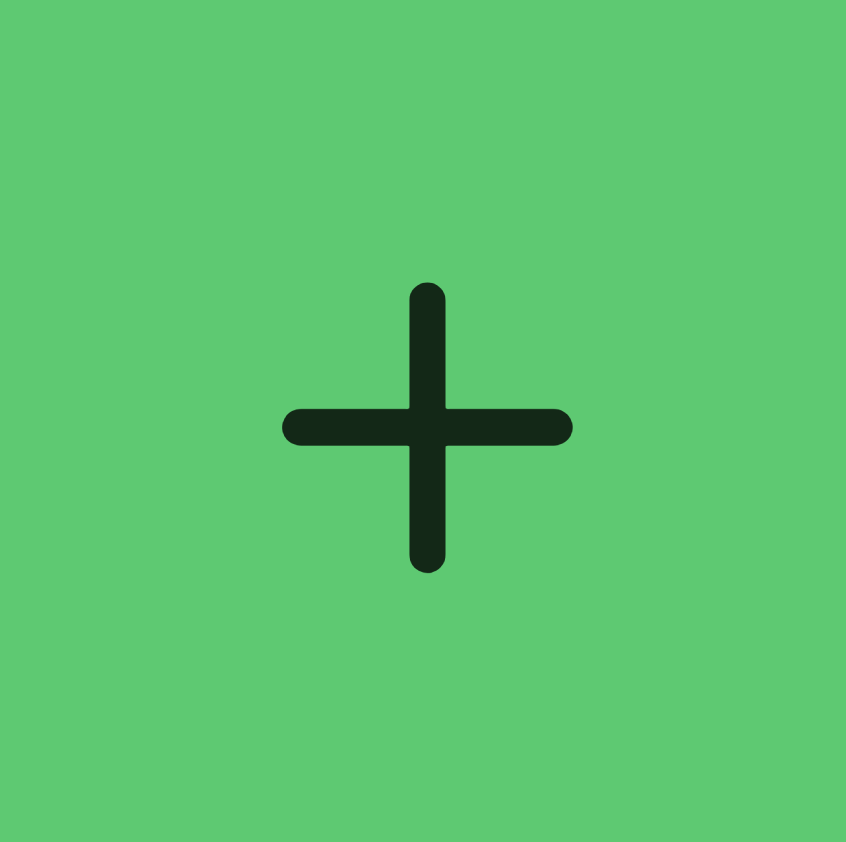
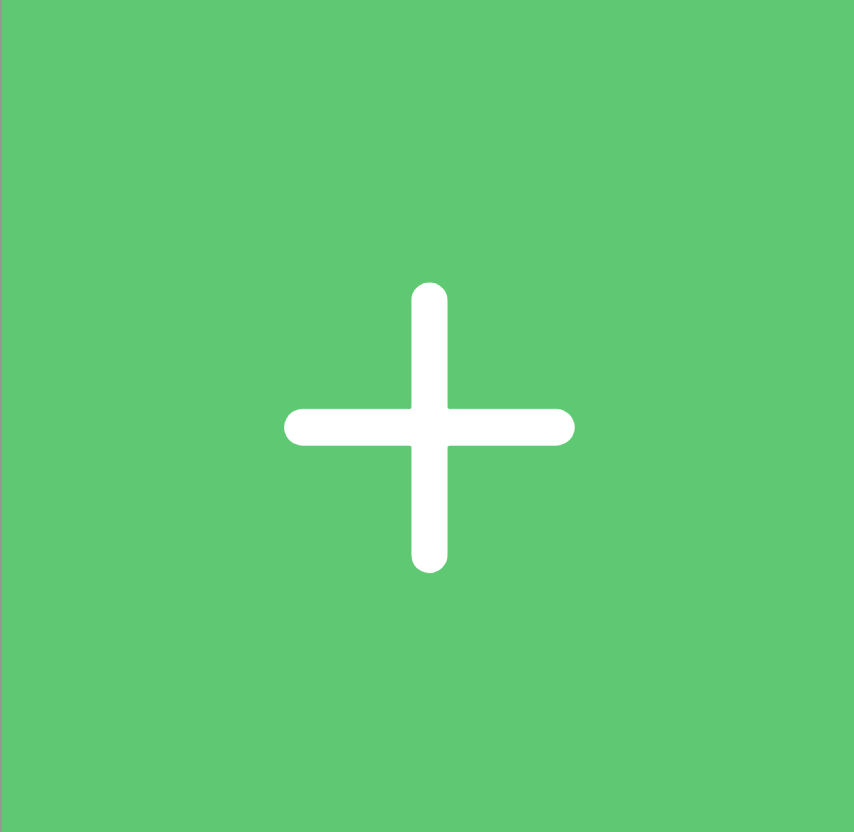
deleting users

Changed region(s): [[0.3073, 0.3125, 0.6761, 0.6875]]

diff --git a/frontend/src/components/DeletableAvatar.js b/frontend/src/components/DeletableAvatar.js
@@ -1,0 +1,60 @@
+import {
+  Avatar,
+  Button,
+  Modal,
+  ModalBody,
+  ModalContent,
+  ModalFooter,
+  ModalHeader,
+  Select,
+  Tooltip,
+  useDisclosure,
+} from "@nextui-org/react";
+import React from "react";
+const url = process.env.REACT_APP_API_URL;
+
+const DeletableAvatar = ({ user, fetchUsers, tripId }) => {
+  const { isOpen, onOpen, onOpenChange } = useDisclosure();
+  const name = user.name;
+  const userId = user.id;
+  const deleteTripUser = (userId) => {
+    fetch(`${url}/trip/${tripId}/remove_user/${userId}/`, {
+      method: "DELETE",
+    }).then(() => fetchUsers());
+  };
+
+  const handleDeleteUser = () => {
+    deleteTripUser(userId);
+    fetchUsers();
+    onOpenChange();
+  };
+
+  return (
+    <>
+      <Tooltip content={name} placement="bottom">
+        <Avatar onClick={onOpen} className="cursor-pointer" name={name} />
+      </Tooltip>
+      <Modal isOpen={isOpen} onOpenChange={onOpenChange}>
+        <ModalContent>
+          {(onClose) => (
+            <>
+              <ModalHeader className="flex flex-col gap-1">
+                Czy na pewno chcesz usunąć uczestnika?
+              </ModalHeader>
+              <ModalFooter>
+                <Button color="default" variant="" onPress={onClose}>
+                  Zamknij
+                </Button>
+                <Button color="danger" onPress={handleDeleteUser}>
+                  Usuń uczestnika
+                </Button>
+              </ModalFooter>
+            </>
+          )}
+        </ModalContent>
+      </Modal>
+    </>
+  );
+};
+
+export default DeletableAvatar;

diff --git a/frontend/src/views/Trip.js b/frontend/src/views/Trip.js
@@ -13,6 +13,7 @@ import ExpansesTable from "../components/ExpansesTable";
 import AddNewExpanseModal from "../modals/AddNewExpanseModal";
 import BackgroundPickerModal from "../modals/BackgroundPickerModal";
 import AddNewTripUserModal from "../modals/AddNewTripUserModal";
+import DeletableAvatar from "../components/DeletableAvatar";
 import { useParams } from "react-router-dom";
 const url = process.env.REACT_APP_API_URL;
 
@@ -50,12 +51,6 @@ const Trip = () => {
       .then((data) => setUsers(data.people_details));
   };
 
-  const deleteTripUser = (userId) => {
-    fetch(`${url}/trip/${tripId}/remove_user/${userId}/`, {
-      method: "DELETE",
-    }).then(() => fetchUsers());
-  };
-
   return (
     <>
       <div className="w-full">
@@ -85,9 +80,11 @@ const Trip = () => {
               <div className="md:w-[50%] relative bottom-5 md:top-0 ">
                 <AvatarGroup max={8}>
                   {users?.map((user) => (
-                    <Tooltip content={user.name} placement="bottom">
-                      <Avatar name={user.name} />
-                    </Tooltip>
+                    <DeletableAvatar
+                      user={user}
+                      fetchUsers={fetchUsers}
+                      tripId={tripId}
+                    />
                   ))}
                   <AddNewTripUserModal
                     tripId={tripId}

diff --git a/frontend/src/modals/AddNewTripUserModal.js b/frontend/src/modals/AddNewTripUserModal.js
@@ -14,6 +14,8 @@ import {
 } from "@nextui-org/react";
 
 import { useEffect, useState } from "react";
+import plusIcon from "../images/add.png";
+import { animate } from "framer-motion";
 
 const url = process.env.REACT_APP_API_URL;
 
@@ -56,11 +58,8 @@ const AddNewTripUserModal = ({ tripId, fetchUsers }) => {
       <Tooltip content="Dodaj uczestnika" placement="bottom">
         <Avatar
           onClick={onOpen}
-          color="primary"
-          classNames={{
-            base: "primary",
-          }}
           className="cursor-pointer"
+          src={plusIcon}
           fallback={<plusIcon fill="#FFF" size={8} />}
         ></Avatar>
       </Tooltip>
